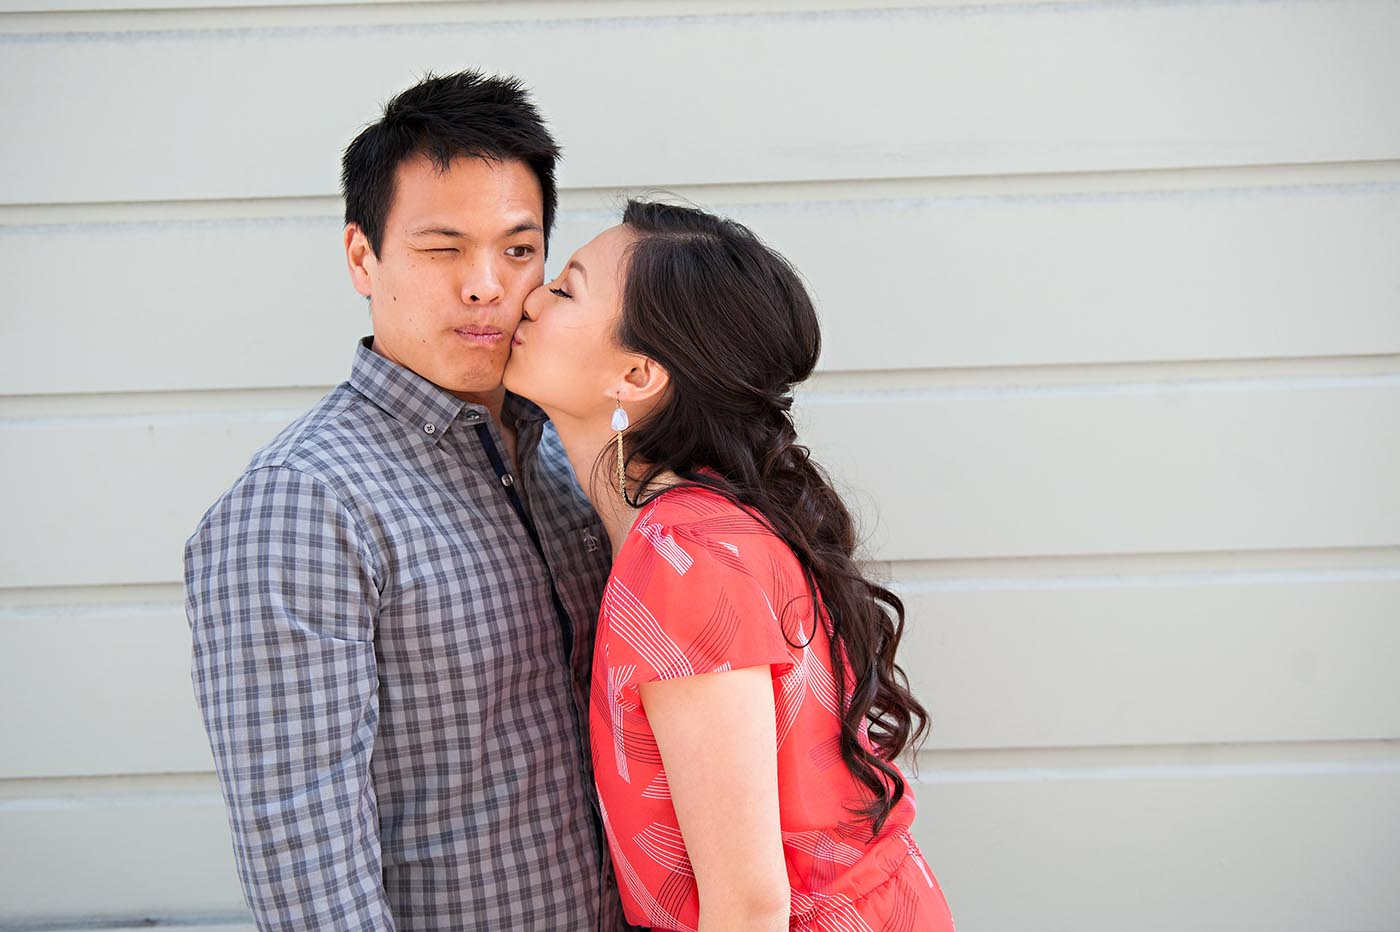
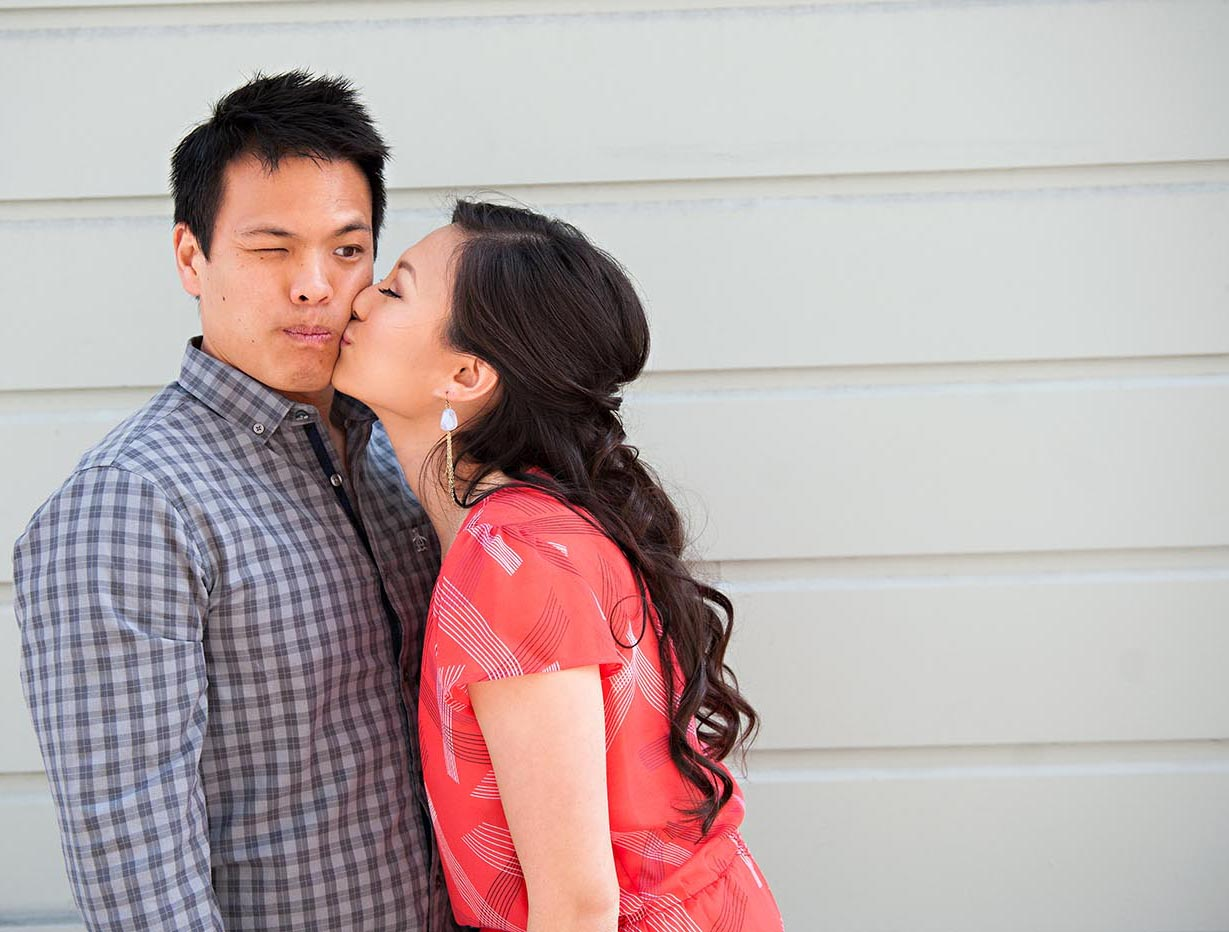
cropping last background image

diff --git a/index.html b/index.html
@@ -381,7 +381,7 @@
       <div class="container diagonal-padded">
 
 	<div id="accommodations" class="row">
-	  <div class="span5">
+	  <div class="offset5 span5">
 	    <h3>Accommodations</h3>
 
 	    <h4>Hotel</h4>
@@ -410,7 +410,7 @@
 	</div>
 
 	<div id="activities" class="row">
-	  <div class="span5">
+	  <div class="offset5 span5">
 	    <h3>Activities</h3>
 
 	    <h4>Things to do nearby</h4>
